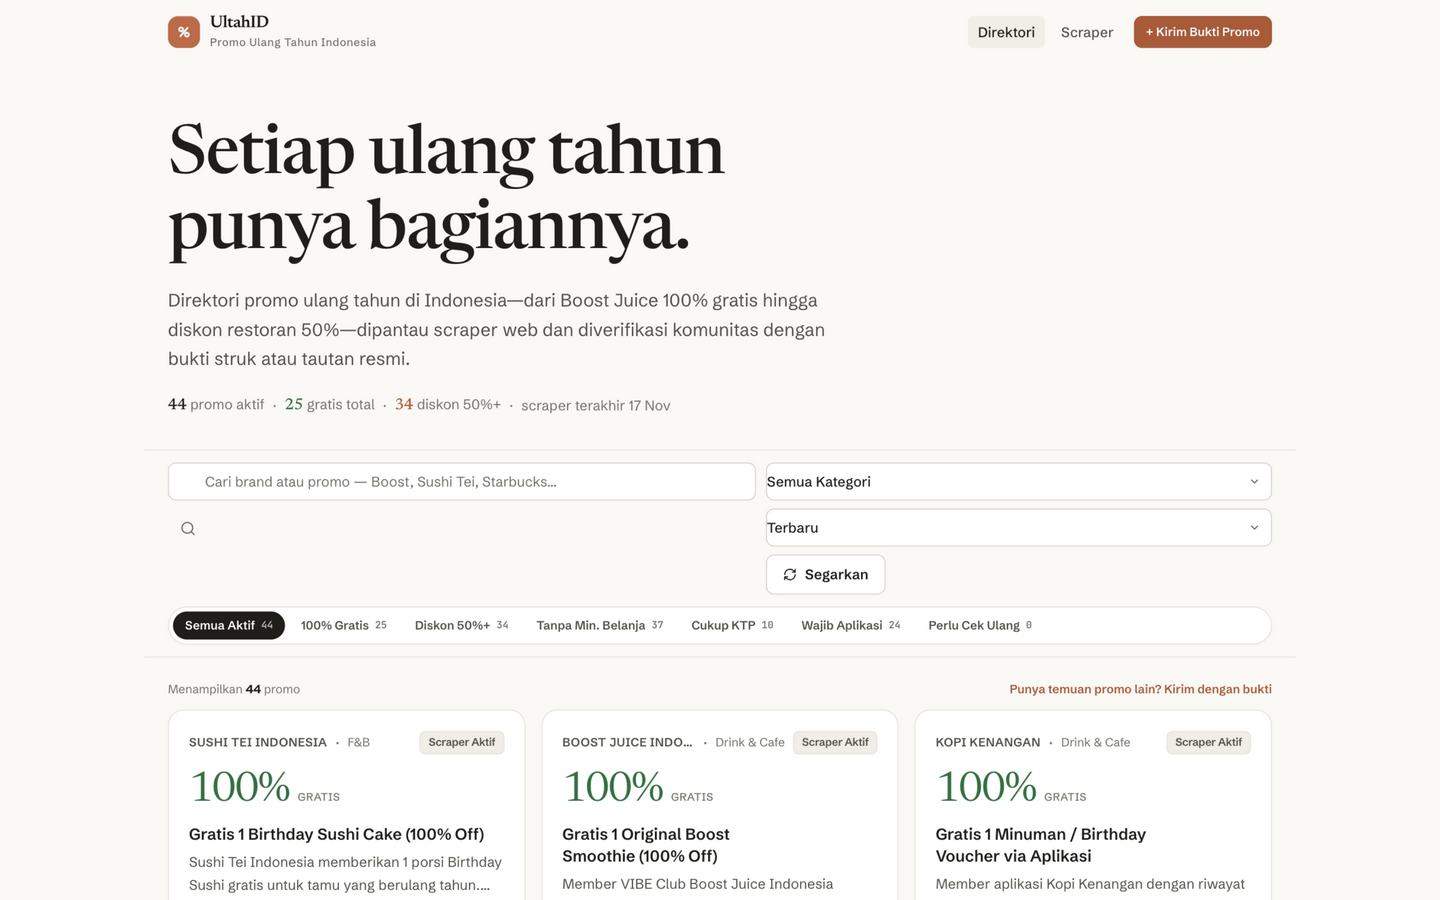
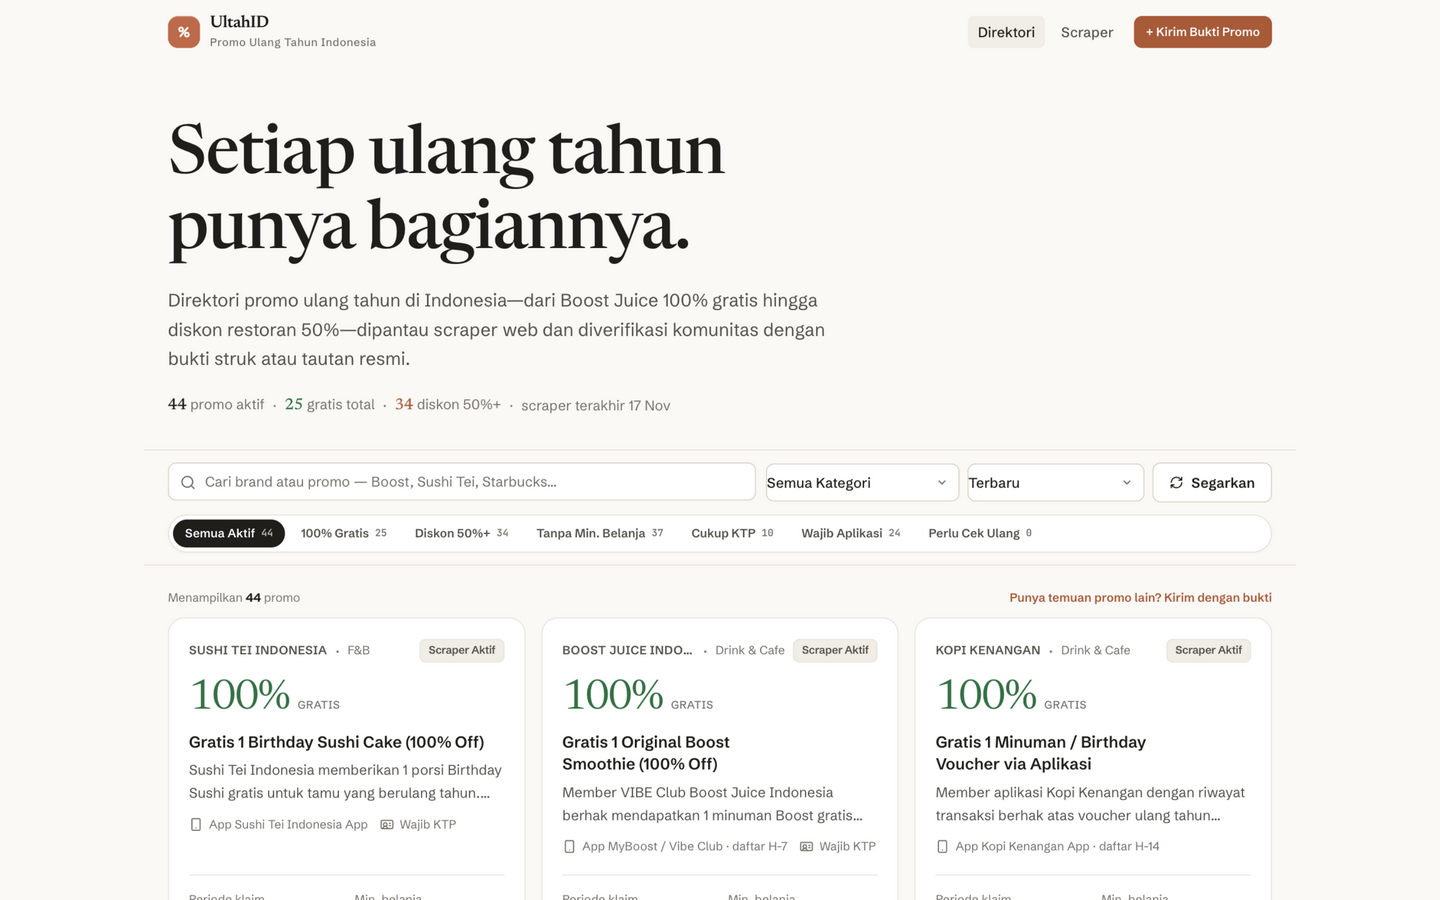
Harden toolbar wrap and CTA fit at 360px (review fixes)

diff --git a/src/components/DealsExplorer.tsx b/src/components/DealsExplorer.tsx
@@ -309,12 +309,12 @@ export function DealsExplorer({
             )}
           </div>
 
-          <div className="flex flex-wrap items-center gap-2">
+          <div className="flex flex-wrap sm:flex-nowrap items-center gap-2">
             <Select
               aria-label="Kategori promo"
               value={category}
               onChange={(e) => setCategory(e.target.value)}
-              className="w-auto min-w-0 flex-1 sm:flex-none font-medium"
+              className="w-full sm:w-auto font-medium"
             >
               <option value="ALL">Semua Kategori</option>
               {DEAL_CATEGORIES.map((cat) => (
@@ -330,7 +330,7 @@ export function DealsExplorer({
               onChange={(e) =>
                 setSortBy(e.target.value as "freshness" | "discount" | "votes" | "newest")
               }
-              className="w-auto min-w-0 flex-1 sm:flex-none font-medium"
+              className="w-full sm:w-auto font-medium"
             >
               <option value="freshness">Terbaru</option>
               <option value="discount">Diskon Terbesar</option>

diff --git a/src/components/ui/Button.tsx b/src/components/ui/Button.tsx
@@ -24,7 +24,7 @@ export function buttonClasses(
   size: ButtonSize = "md",
   extra = "",
 ) {
-  return `inline-flex items-center justify-center font-semibold pressable focus-ring disabled:pointer-events-none disabled:opacity-50 select-none ${variantClasses[variant]} ${sizeClasses[size]} ${extra}`;
+  return `inline-flex items-center justify-center font-semibold whitespace-nowrap pressable focus-ring disabled:pointer-events-none disabled:opacity-50 select-none ${variantClasses[variant]} ${sizeClasses[size]} ${extra}`;
 }
 
 interface ButtonProps extends ButtonHTMLAttributes<HTMLButtonElement> {

diff --git a/src/components/SiteHeader.tsx b/src/components/SiteHeader.tsx
@@ -48,7 +48,10 @@ export function SiteHeader() {
           <Link href="/" className={navLinkClass(pathname === "/")}>
             Direktori
           </Link>
-          <Link href="/scraper" className={navLinkClass(pathname === "/scraper")}>
+          <Link
+            href="/scraper"
+            className={`${navLinkClass(pathname === "/scraper")} hidden sm:inline-block`}
+          >
             Scraper
           </Link>
           <Link
